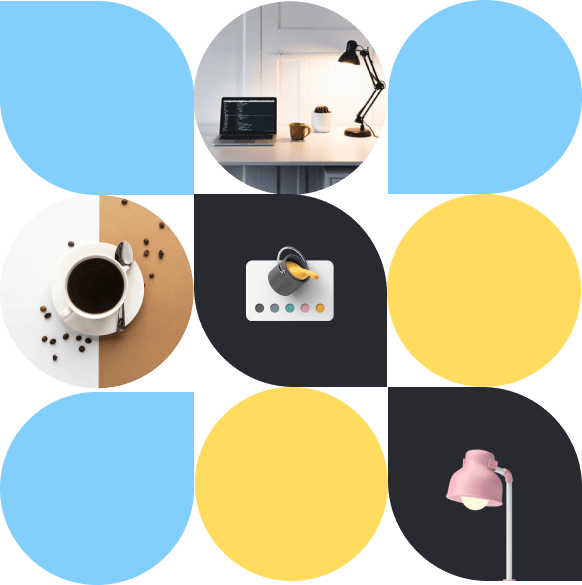
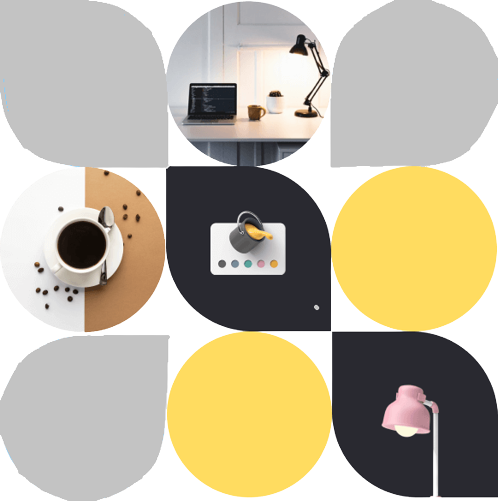
up

diff --git a/assets/css/style.css b/assets/css/style.css
@@ -152,7 +152,7 @@ html {
 }
 
 body {
-  background-color: var(--white);
+  background-color: var(--eerie-black);
   color: var(--slate-gray);
   font-size: 1.6rem;
   line-height: 1.75;
@@ -184,13 +184,13 @@ body {
 .h2 { letter-spacing: -2px; }
 
 .h1 {
-  color: var(--black);
+  color: var(--white);
   font-size: var(--fs-1);
   line-height: 1.1;
 }
 
 .h2,
-.h3 { color: var(--raisin-black-1); }
+.h3 { color: var(--white); }
 
 .h2 {
   font-size: var(--fs-2);
@@ -267,7 +267,7 @@ body {
 .btn:is(:hover, :focus)::after { transform-origin: left; }
 
 .btn-primary {
-  background-color: var(--majorelle-blue);
+  background-color: var(--eerie-black);
   color: var(--white);
 }
 
@@ -517,7 +517,7 @@ body {
   #SERVICE
 \*-----------------------------------*/
 
-.service { background-color: var(--ghost-white); }
+.service { background-color: var(--eerie-black); }
 
 .service .section-title { margin-block: 30px 60px; }
 
@@ -529,10 +529,10 @@ body {
 
 .service-card {
   height: 100%;
-  background-color: var(--white);
+  background-color: var(--eerie-black);
   padding-block-end: 40px;
-  border-block-end: 3px solid transparent;
-  box-shadow: var(--shadow-3);
+  border-block-end: 3px solid --white;
+  box-shadow: var(--shadow-2);
   transition: var(--transition-1);
 }
 
@@ -627,7 +627,7 @@ body {
   #PROJECT
 \*-----------------------------------*/
 
-.project { background-color: var(--ghost-white); }
+.project { background-color: var(--eerie-black); }
 
 .project .section-title { margin-block: 20px 60px; }
 
@@ -1216,7 +1216,7 @@ body {
     font-weight: var(--fw-500);
   }
 
-  .navbar-link:is(:hover, :focus) { color: var(--raisin-black-1); }
+  .navbar-link:is(:hover, :focus) { color: var(--white); }
 
   .navbar-link::before {
     content: "";
@@ -1246,7 +1246,7 @@ body {
    */
 
   .hero {
-    background-image: linear-gradient(to right, var(--white) 79%, var(--mustard) 79%);
+    background-image: linear-gradient(to right, var(--eerie-black) 79%, var(--mustard) 79%);
     overflow: hidden;
   }
 

diff --git a/index.html b/index.html
@@ -113,7 +113,7 @@
               Bienvenue dans notre agence informatique innovante KOUDA, où la création de sites web époustouflants et l'amélioration du référencement SEO sont notre passion. Chez nous, chaque pixel compte et chaque ligne de code est soigneusement sculptée pour donner vie à des sites web exceptionnels qui captent l'imagination de vos visiteurs.
             </p>
             <div class="card-icon">
-              <center><img src="./assets/images/K O U D A (4).png" width="200" height="200" loading="lazy"
+              <center><img src="./assets/images/K.jpg" width="200" height="200" loading="lazy"
                 alt="service icon">
             </div>
         

diff --git a/index_koudagym.html b/index_koudagym.html
@@ -37,7 +37,7 @@
       <div class="container">
         <nav class="navbar navbar-expand-lg custom_nav-container">
           <a class="navbar-brand" href="index_koudagym.html">
-            <img src="assets/images/K O U D A (2).png" alt="" />
+            <img src="assets/images/K.jpg" alt="" />
             <span>
               Kouda gym
             </span>
@@ -154,7 +154,7 @@
       </div>
       <div class="box">
         <div class="img-box">
-          <img src="assets/images/about-img.png" alt="">
+          <img src="assets/images/K.jpg" alt="">
         </div>
         <div class="detail-box">
           <p>
